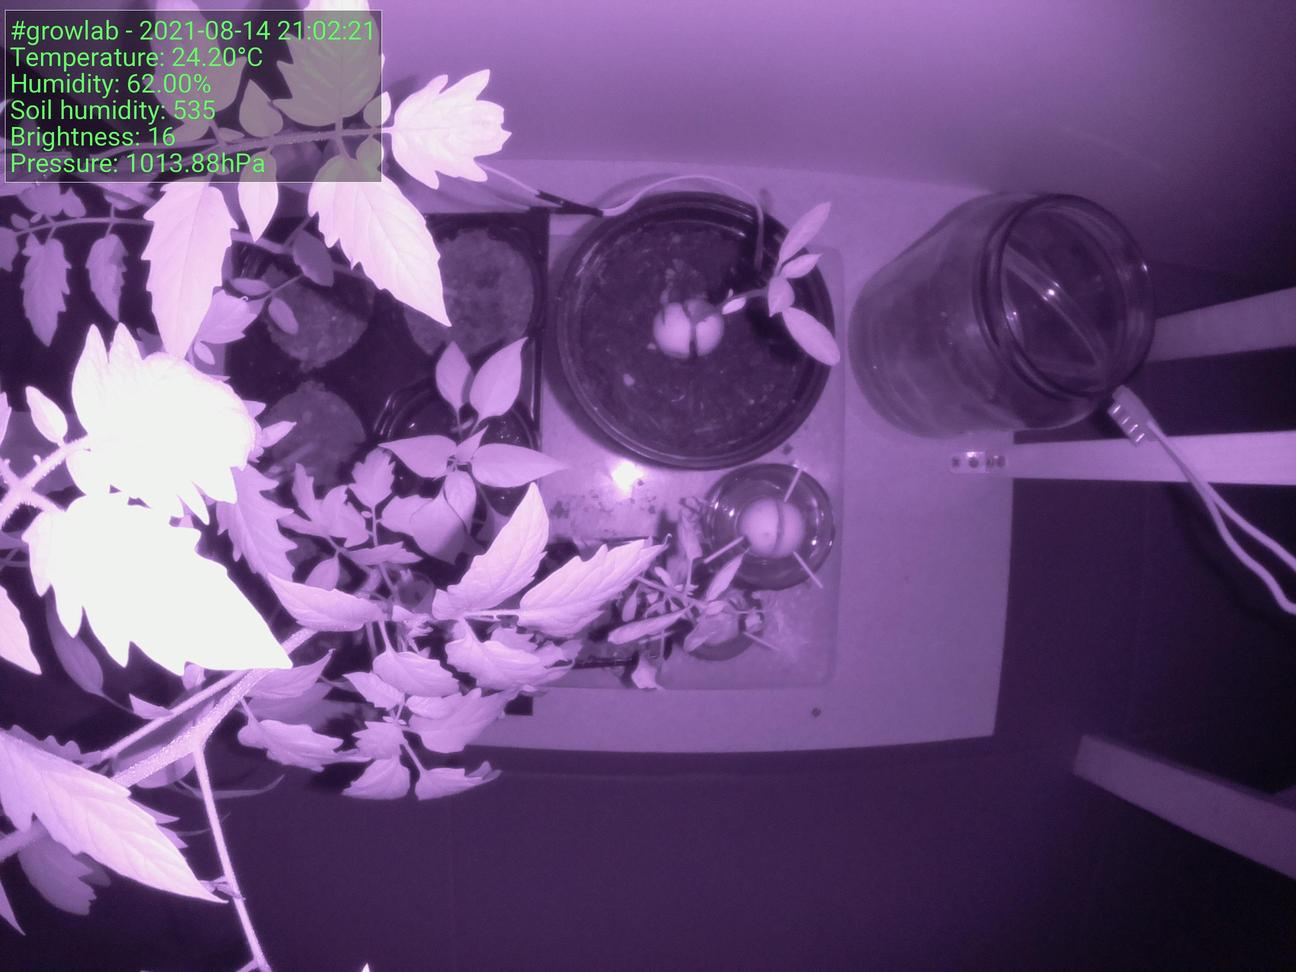
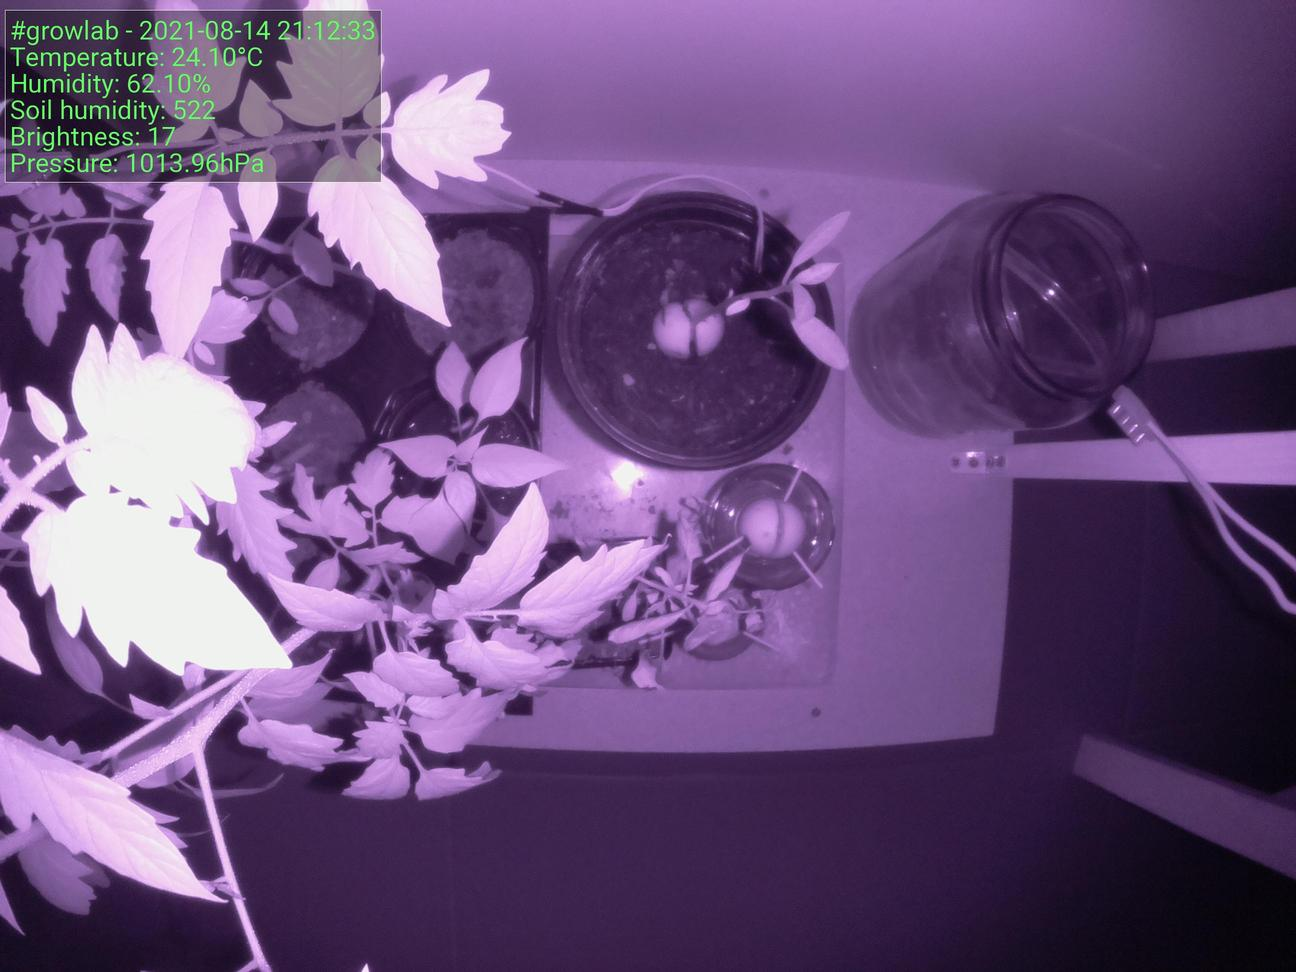
:bento: Update preview

Changed region(s): [[0.5556, 0.216, 0.6481, 0.3704], [0.1235, 0.0309, 0.216, 0.1852], [0.2469, 0.0, 0.3086, 0.0617]]

diff --git a/index.html b/index.html
@@ -39,15 +39,15 @@
                     <tbody>
                         <tr>
                             <td>Time</td>
-                            <td>2021-08-14 21:02:21</td>
+                            <td>2021-08-14 21:12:33</td>
                         </tr>
                         <tr>
                             <td>Temperature</td>
-                            <td>24.20°C</td>
+                            <td>24.10°C</td>
                         </tr>
                         <tr>
                             <td>Humidity</td>
-                            <td>62.00%</td>
+                            <td>62.10%</td>
                         </tr>
                     </tbody>
                 </table>
@@ -55,7 +55,7 @@
 
                 <h5>Latest image</h5>
 		<div style="width: 85%;">
-	                <img class="figure-img img-fluid rounded" src="./preview.jpg?uid=1628967748.8956492">
+	                <img class="figure-img img-fluid rounded" src="./preview.jpg?uid=1628968360.4332263">
 		</div>
             </div>
         </div>
